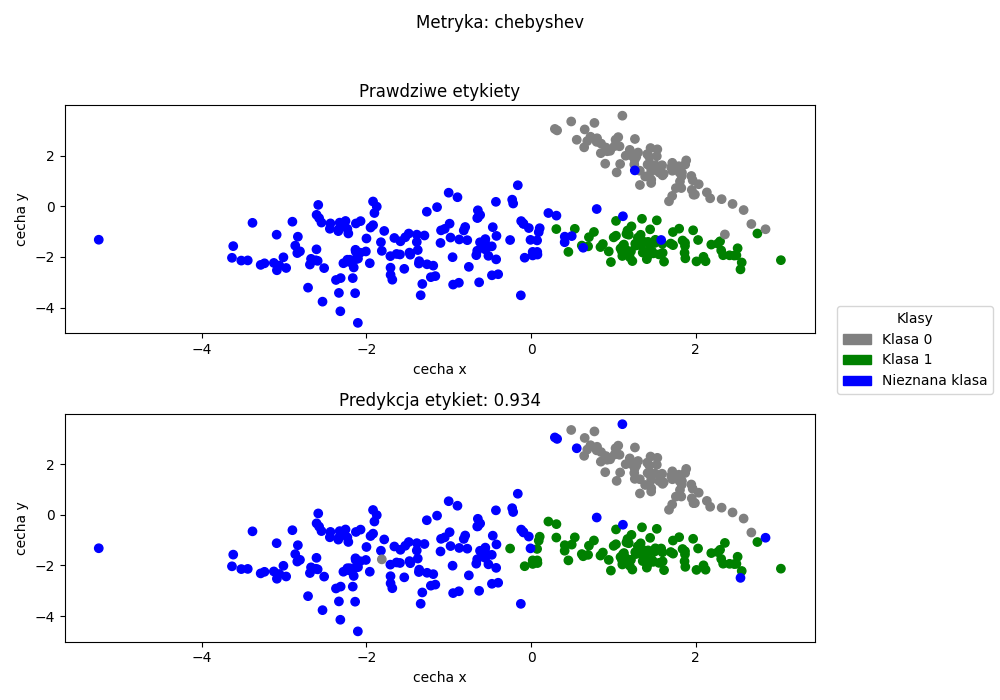
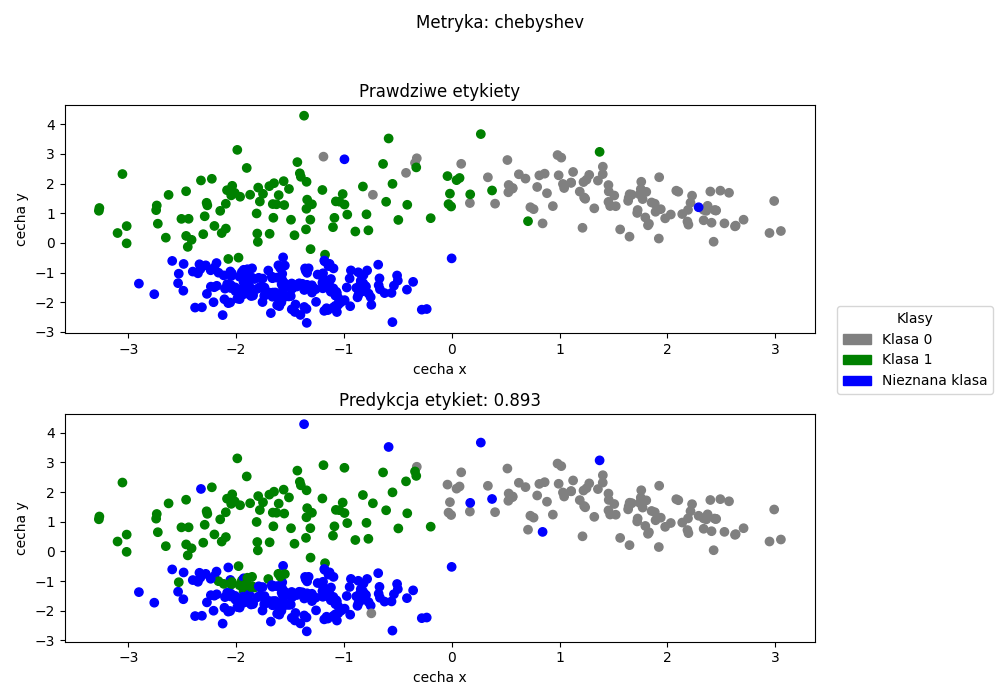
stabilizacja środowiska

diff --git a/main.py b/main.py
@@ -23,8 +23,9 @@ print("y_known shape {}, y_unknown shape {} ".format(y_known.shape, y_unknown.sh
 for metric in metrics:
     scores = []
     for j in range(10):
-        print("*************************** Iteracja: {} ***************************".format(j))
-        X_train, X_test, y_train, y_test = train_test_sets(X_known, y_known, X_unknown, y_unknown)
+        random_state=(j+1)*1000
+        print("*************************** Iteracja: {}, random_state= {} ***************************".format(j,random_state))
+        X_train, X_test, y_train, y_test = train_test_sets(X_known, y_known, X_unknown, y_unknown,random_state)
 
         unique_classes = np.unique(np.concatenate((y_train, y_test)))
 
@@ -33,7 +34,7 @@ for metric in metrics:
         label_names[-1] = f"obca {class_labels[-1]}"
 
         # Inicjalizacja klasyfikatora z daną metryką
-        knn = Knn_with_OSR(k=3, threshold=None, metric=metric)
+        knn = Knn_with_OSR(k=790, threshold=None,vote_treshold=None, metric=metric)
 
         # Trenowanie modelu
         knn.fit(X_train, y_train)
@@ -68,12 +69,12 @@ for metric in metrics:
     # Wyznaczenie średniej i odchylenia standardowego dla 10 powtórzeń danej metryki
     mean_score = round(np.mean(scores),3)
     std_score = round(np.std(scores),3)
-    results_summary.append([metric, round(mean_score, 4), round(std_score, 4)])
+    results_summary.append([metric,"{} ({})".format(round(mean_score, 4), round(std_score, 4))])
     print("\n\033[34mŚrednia balanced accuracy: {:.3f} \033[39m".format(mean_score))
     print("\033[31mOdchylenie standardowe: {:.3f} \033[39m".format(std_score))
 
 f.close()
-df_results = pd.DataFrame(results_summary, columns=["Metryka", "Średnia", "Odchylenie"])
+df_results = pd.DataFrame(results_summary, columns=["Metryka", "Wynik"])
 timestamp = datetime.now().strftime("%Y-%m-%d_%H-%M-%S")
 filename = f"results/wyniki_knn_{timestamp}.csv"
 df_results.to_csv(filename, index=False)

diff --git a/Classification.py b/Classification.py
@@ -3,10 +3,11 @@ from sklearn.base import BaseEstimator
 
 class Knn_with_OSR(BaseEstimator):
 
-    def __init__(self, k, threshold=None, threshold_percentile=95, metric='euclidean'):
+    def __init__(self, k, threshold=None, vote_treshold=None, threshold_percentile=95, metric='euclidean'):
         self.k = k
         self.metric = metric
         self.threshold = threshold
+        self.vote_treshold = vote_treshold
         self.threshold_percentile = threshold_percentile
 
     def fit(self, X_train, y_train):
@@ -74,10 +75,16 @@ class Knn_with_OSR(BaseEstimator):
             most_common = max(set(k_nearest_labels), key=k_nearest_labels.count)
             min_distance = np.min(distances)
 
-            # Sprawdzenie progu odległości
-            if min_distance > self.threshold or k_nearest_labels.count(most_common) / self.k < 0.20:
-                most_common = max(set(self.y_train)) + 1
-            # Dodanie klasy do listy predykcji
-            predictions.append(most_common)
+            if self.vote_treshold == None:
+                if min_distance > self.threshold:
+                    most_common = max(set(self.y_train)) + 1
+                # Dodanie klasy do listy predykcji
+                predictions.append(most_common)
+            else:
+                # Sprawdzenie progu odległości
+                if min_distance > self.threshold or k_nearest_labels.count(most_common) / self.k < self.vote_treshold:
+                    most_common = max(set(self.y_train)) + 1
+                # Dodanie klasy do listy predykcji
+                predictions.append(most_common)
 
         return np.array(predictions)

diff --git a/Operations.py b/Operations.py
@@ -5,15 +5,18 @@ from matplotlib.patches import Patch
 
 # Utworzenie danych treningowych - znane klasy, oraz zbiór testowy - X_test_known + X_unknwon
 # Jest to modyfikacja train_test_split jako dostosowanie do OSR
-def train_test_sets(X_known,y_known,X_unknown,y_unknown):
+def train_test_sets(X_known,y_known,X_unknown,y_unknown,random_state):
     X_train_known, X_test_known, y_train_known, y_test_known = train_test_split(
         X_known, y_known,
         test_size=0.2,  # 20% do testu
-        stratify=y_known)  # zachowanie proporcji klas
-        #random_state=42)  # powtarzalność
+        stratify=y_known,  # zachowanie proporcji klas
+        random_state=random_state)  # powtarzalność
 
     unknown_label = y_known.max() + 1
     y_unknown = np.full_like(y_unknown, fill_value=unknown_label)
+
+    # Powtarzalność losowania z unknown
+    np.random.seed(random_state)
 
     # Rozłożenie klasy znanych i nieznanych po równo w zbiorze testowym - wybiera losowe próbki z unknown
     num_known = X_test_known.shape[0]

diff --git a/Read_data.py b/Read_data.py
@@ -6,7 +6,7 @@ from sklearn.datasets import make_classification
 def synthetic_data():
     # Wygenerowanie Danych syntetycznych
     X, y = make_classification(
-                                n_samples=1200,
+                                n_samples=1500,
                                 n_features=2,
                                 n_informative=2,
                                 n_redundant=0,
